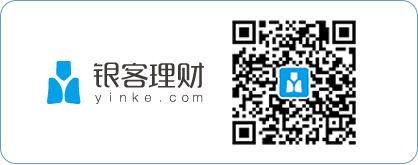
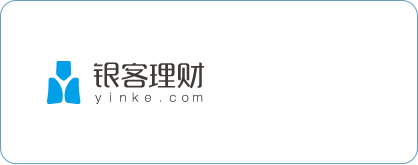
this is news page1

Changed region(s): [[0.5287, 0.1212, 0.8708, 0.8788]]

diff --git a/index.html b/index.html
@@ -50,7 +50,7 @@ footer img{ width:4.04rem; height:0.4rem; position:absolute; bottom:0.34rem; lef
 
 .page4 div:nth-child(3) img{ width:3.39rem; height:0.64rem; margin-top:0.44rem; }
 .page4 div:nth-child(4) img{ width:4.74rem; height:4.05rem; margin-top:0.44rem; }
-.attention-us{ margin-top:0.3rem; }
+.attention-us{ margin-top:0.3rem; position:relative; }
 .attention-us img{ width:3.58rem; height:1.41rem; }
 .page5 .pageTitle{ margin-bottom:0.5rem; }
 
@@ -172,6 +172,7 @@ footer img{ width:4.04rem; height:0.4rem; position:absolute; bottom:0.34rem; lef
 		-webkit-animation-duration: 1.6s !important;
     	animation-duration: 1.6s !important;
 	}
+	.code{ width:64px !important; height:64px !important; position: absolute; left: 50%; top: 0.16rem; margin-left: 0.4rem; }
 </style>
 <link rel="stylesheet" href="css/animate.min.css">
 <script src="js/swiper.min.js"></script>
@@ -227,9 +228,18 @@ footer img{ width:4.04rem; height:0.4rem; position:absolute; bottom:0.34rem; lef
         <div class="swiper-slide page5">
 			<div style="display:block"><img src="img/logo.png" ></div>
         	<div class="pageTitle page5-animate-01"><img src="img/page05-img00.png" ></div>
-        	<div class="attention-us page5-animate-02"><img src="img/page05-img01.png" alt=""></div>
-        	<div class="attention-us page5-animate-03"><img src="img/page05-img02.png" alt=""></div>
-        	<div class="attention-us page5-animate-04"><img src="img/page05-img03.png" alt=""></div>
+        	<div class="attention-us page5-animate-02">
+        		<img src="img/page05-img01.png" alt="">
+        		<img src="img/code1.png" alt="" class="code"/>
+        	</div>
+        	<div class="attention-us page5-animate-03">
+        		<img src="img/page05-img02.png" alt="">
+        		<img src="img/code2.png" alt=""  class="code"/>
+        	</div>
+        	<div class="attention-us page5-animate-04">
+        		<img src="img/page05-img03.png" alt="">
+        		<img src="img/code2.png" alt=""  class="code"/>
+        	</div>
         	<footer><img src="img/teamwork.png" ></footer>
         </div>
     </div>
@@ -246,21 +256,6 @@ footer img{ width:4.04rem; height:0.4rem; position:absolute; bottom:0.34rem; lef
 <script src="js/index.js"></script>
 </body>
 </html>
-<script>
-	function share (title, desc ) {
-	    weiXin.ready(function () {
-	      WeixinJSBridge.on('menu:share:timeline', function () {
-	        WeixinJSBridge.invoke('shareTimeline', {
-	          "title": title,
-	          "desc": desc
-	        }, function( res ) {
-	          _report('share', res.err_msg);
-	        });
-	      });
-	    });
-	  }
-	share ("实业为本 基业长青", "诚邀您出席INK（银客）集团战略升级暨C轮融资发布会，共同见证INK新时代" )
-</script>
 
 
 
